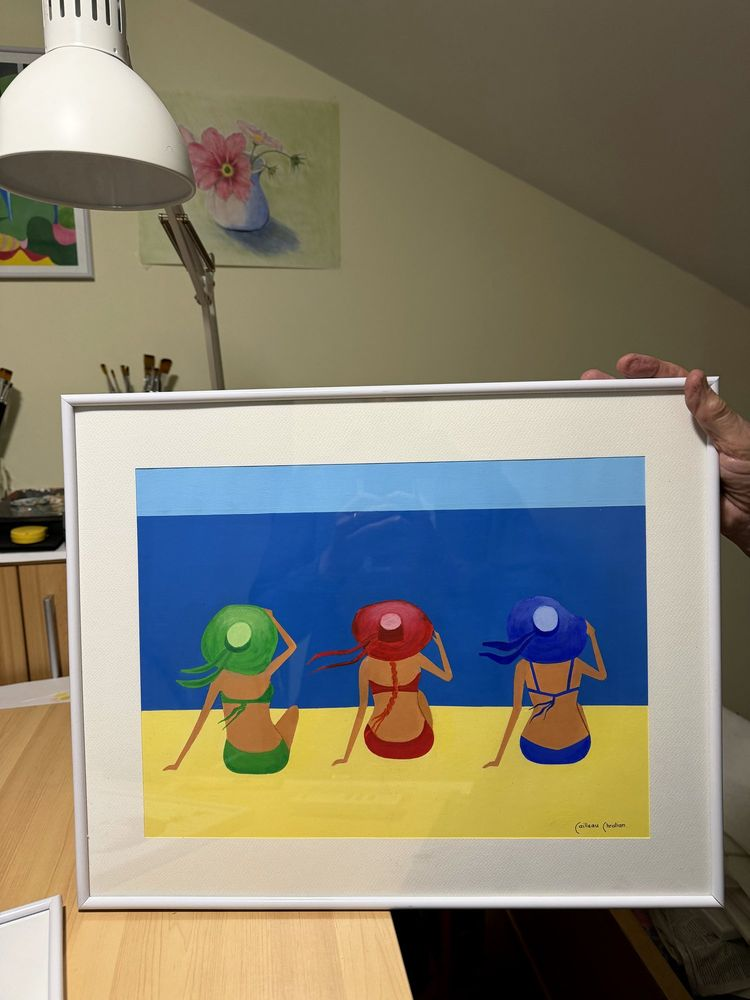
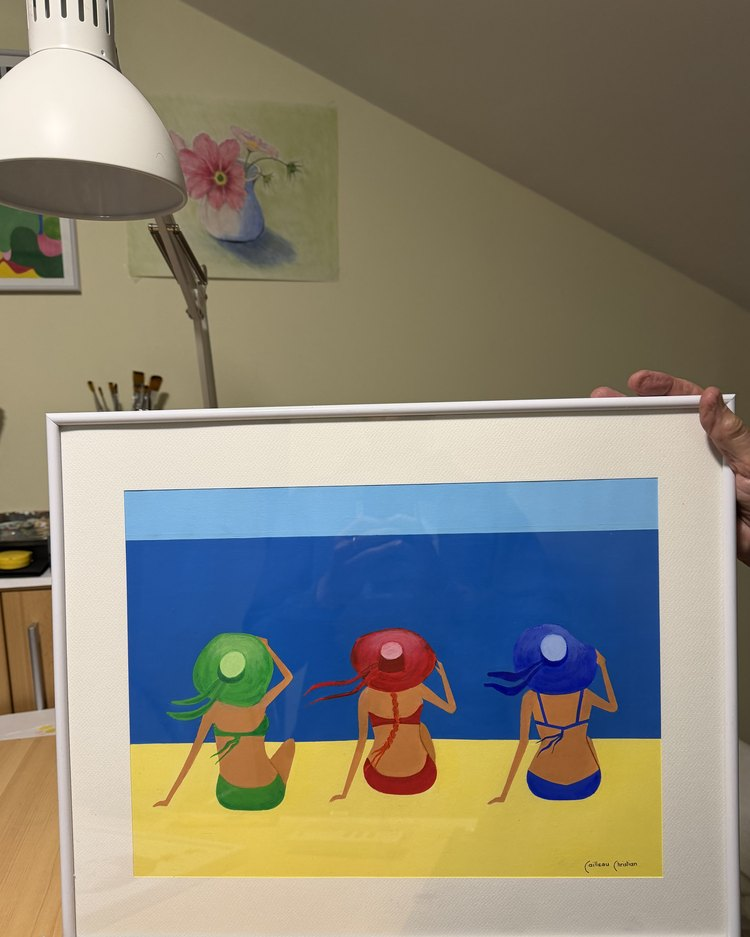
À propos : La robe rayée retirée des photos de l'atelier
Elle traînait sur la table dans trois photos. IMG_5489 et IMG_5491 sont
recadrées depuis les originaux HEIC (la table de IMG_5491 retouchée en
plus), et la photo de la table (IMG_5487) est remplacée par les trois
baigneuses tenues face à l'objectif (IMG_5490). Nouveaux noms de
fichiers pour éviter le cache des téléphones.

diff --git a/index.html b/index.html
@@ -268,8 +268,8 @@ python3 -m http.server 8080</pre>
 
       <div class="about-block about-split">
         <figure class="photo reveal" style="--ar: 3 / 2">
-          <img :src="photoSrc('IMG_5489', 1000)" :srcset="photoSet('IMG_5489')" sizes="(max-width: 759px) 100vw, 60vw"
-               style="object-position: 50% 42%" alt="Christian dans son atelier, un tableau encadré dans les mains" width="1500" height="2000">
+          <img :src="photoSrc('IMG_5489b', 1000)" :srcset="photoSet('IMG_5489b')" sizes="(max-width: 759px) 100vw, 60vw"
+               style="object-position: 50% 50%" alt="Christian dans son atelier, un tableau encadré dans les mains" width="1500" height="1000">
         </figure>
         <p class="about-text reveal">
           Depuis sa retraite, il a repris des cours de dessin et s'est mis à la peinture. Il travaille dans un petit atelier installé dans une chambre, sous les toits. Il a peint une trentaine de tableaux.
@@ -288,12 +288,12 @@ python3 -m http.server 8080</pre>
 
       <div class="about-block about-pair">
         <figure class="photo reveal" style="--ar: 4 / 5">
-          <img :src="photoSrc('IMG_5487', 1000)" :srcset="photoSet('IMG_5487')" sizes="(max-width: 759px) 100vw, 45vw"
-               style="object-position: 50% 60%" alt="La table de l'atelier, un tableau encadré posé dessus" width="1500" height="2000">
+          <img :src="photoSrc('IMG_5490', 1000)" :srcset="photoSet('IMG_5490')" sizes="(max-width: 759px) 100vw, 45vw"
+               style="object-position: 50% 50%" alt="Les trois baigneuses encadrées, tenues face à l'objectif" width="1500" height="1875">
         </figure>
         <figure class="photo reveal" style="--ar: 4 / 5">
-          <img :src="photoSrc('IMG_5491', 1000)" :srcset="photoSet('IMG_5491')" sizes="(max-width: 759px) 100vw, 45vw"
-               style="object-position: 55% 55%" alt="Deux mains tiennent un portrait encadré" width="1500" height="2000">
+          <img :src="photoSrc('IMG_5491b', 1000)" :srcset="photoSet('IMG_5491b')" sizes="(max-width: 759px) 100vw, 45vw"
+               style="object-position: 50% 50%" alt="Deux mains tiennent un portrait encadré" width="1500" height="1875">
         </figure>
       </div>
 

diff --git a/README.md b/README.md
@@ -78,6 +78,7 @@ Pour les tableaux : de face, à la lumière du jour, sans flash, si possible hor
 - `assets/styles.css` : toute la direction artistique.
 - `js/app.js` : navigation, défilement horizontal, transitions.
 - `data/paintings.json` : les tableaux.
+- `assets/img/atelier/` : les photos de la page À propos, en deux tailles (`nom.jpg` ≈ 1500 px et `nom-1000.jpg`). Les versions `…b` sont recadrées (et, pour `IMG_5491b`, la table retouchée) pour que La robe rayée, mise de côté, n'y apparaisse pas.
 - `assets/photo/` : les photos d'origine (HEIC/JPG), non utilisées par le site. Le projet est versionné sur GitHub (`uimaxence/vitrine-papi`, branche `main`).
 
 ## Images générées par IA (Fal, modèle Nano Banana 2.1 Edit)
